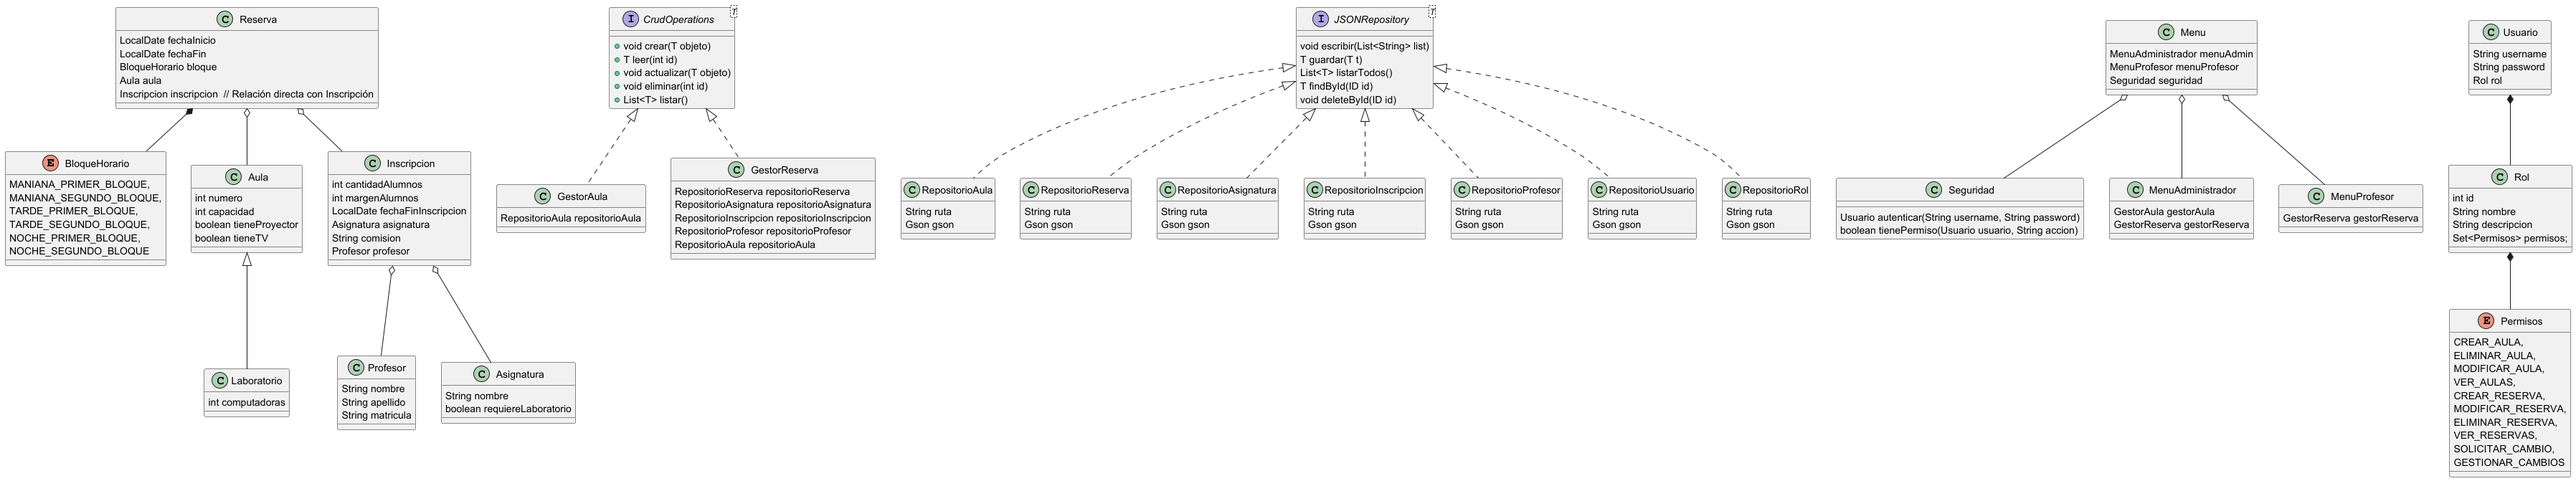
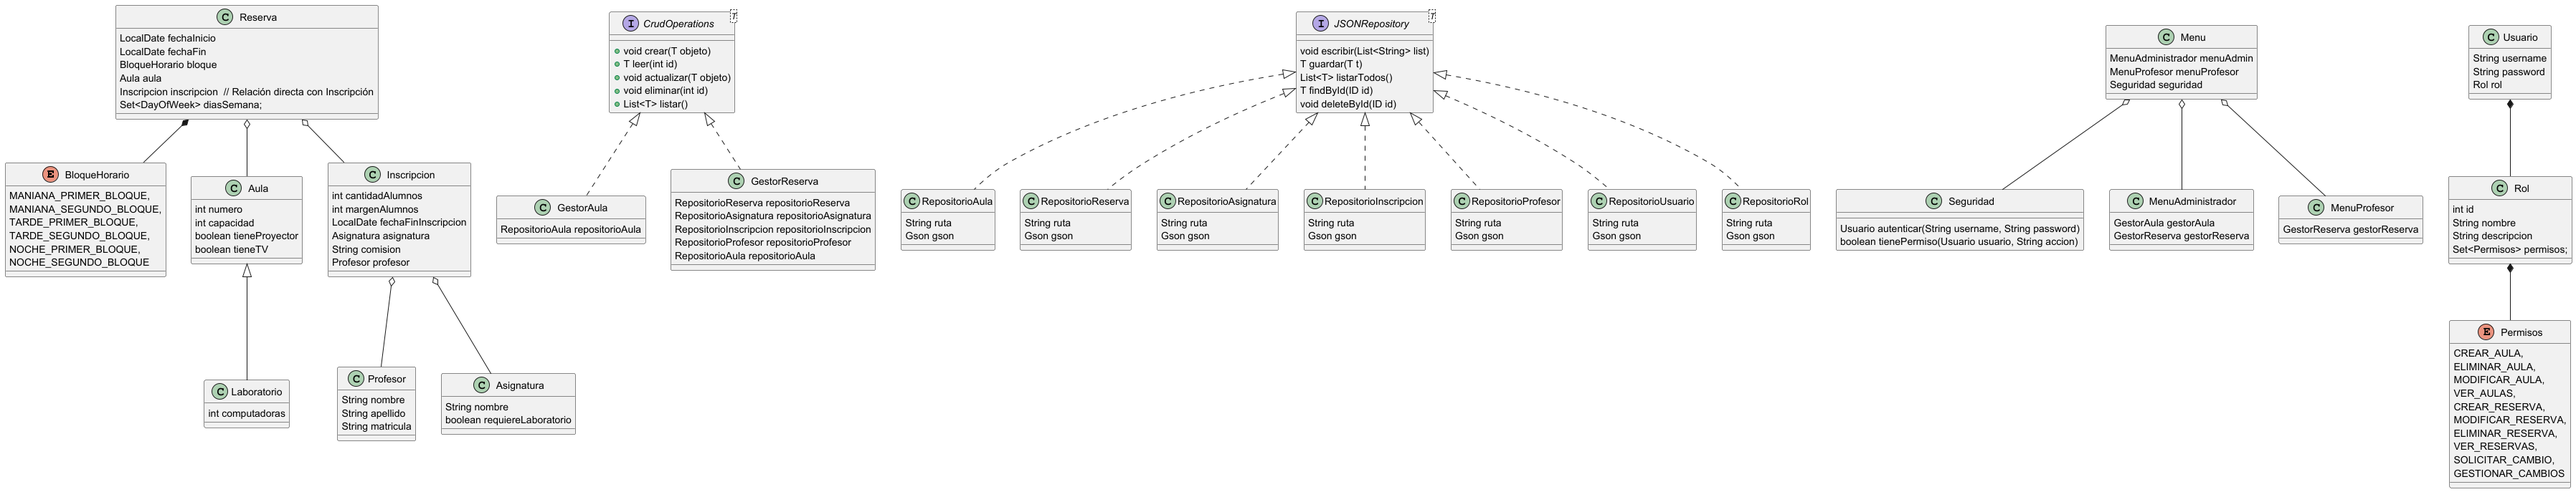
Agrego dia de Semana en Reserva

diff --git a/src/main/java/org/example/model/Reserva.java b/src/main/java/org/example/model/Reserva.java
@@ -6,31 +6,46 @@ import com.google.gson.JsonObject;
 import model.Inscripcion;
 import org.example.enums.BloqueHorario;
 
+import java.time.DayOfWeek;
 import java.time.LocalDate;
+import java.util.Set;
 
 public class Reserva {
-
-    private static int contador;
     private int id;
     private LocalDate fechaInicio;
     private LocalDate fechaFin;
     private BloqueHorario bloque;
     private Aula aula;
     private Inscripcion inscripcion;
+    Set<DayOfWeek> diasSemana;
 
 
-    public Reserva(LocalDate fechaInicio, LocalDate fechaFin, BloqueHorario bloque, Aula aula, Inscripcion inscripcion) {
-        this.id = contador++;
+    public Reserva(int id, LocalDate fechaInicio, LocalDate fechaFin, BloqueHorario bloque, Aula aula, Inscripcion inscripcion, Set<DayOfWeek> diasSemana) {
+        this.id = id;
         this.fechaInicio = fechaInicio;
         this.fechaFin = fechaFin;
         this.bloque = bloque;
         this.aula = aula;
         this.inscripcion = inscripcion;
+        this.diasSemana = diasSemana;
     }
 
 
 
     /// GETTERS AND SETTERS:
+    public int getId() {return id; }
+    public void setId(int id) {
+        this.id = id;
+    }
+
+    public Set<DayOfWeek> getDiasSemana() {
+        return diasSemana;
+    }
+
+    public void setDiasSemana(Set<DayOfWeek> diasSemana) {
+        this.diasSemana = diasSemana;
+    }
+
     public LocalDate getFechaInicio() { return fechaInicio; }
     public void setFechaInicio(LocalDate fechaInicio) { this.fechaInicio = fechaInicio; }
 
@@ -45,8 +60,6 @@ public class Reserva {
 
     public Inscripcion getInscripcion() { return inscripcion; }
     public void setInscripcion(Inscripcion inscripcion) { this.inscripcion = inscripcion; }
-
-    public int getId() {return id; }
 
     // REVISAR
     public JsonObject reservaToJson(){
@@ -67,4 +80,9 @@ public class Reserva {
         return jsonElement.getAsJsonObject();
     }
 
+
+    @Override
+    public String toString() {
+        return STR."Reserva{id=\{id}, fechaInicio=\{fechaInicio}, fechaFin=\{fechaFin}, bloque=\{bloque}, aula=\{aula}, inscripcion=\{inscripcion}, diasSemana=\{diasSemana}\{'}'}";
+    }
 }
